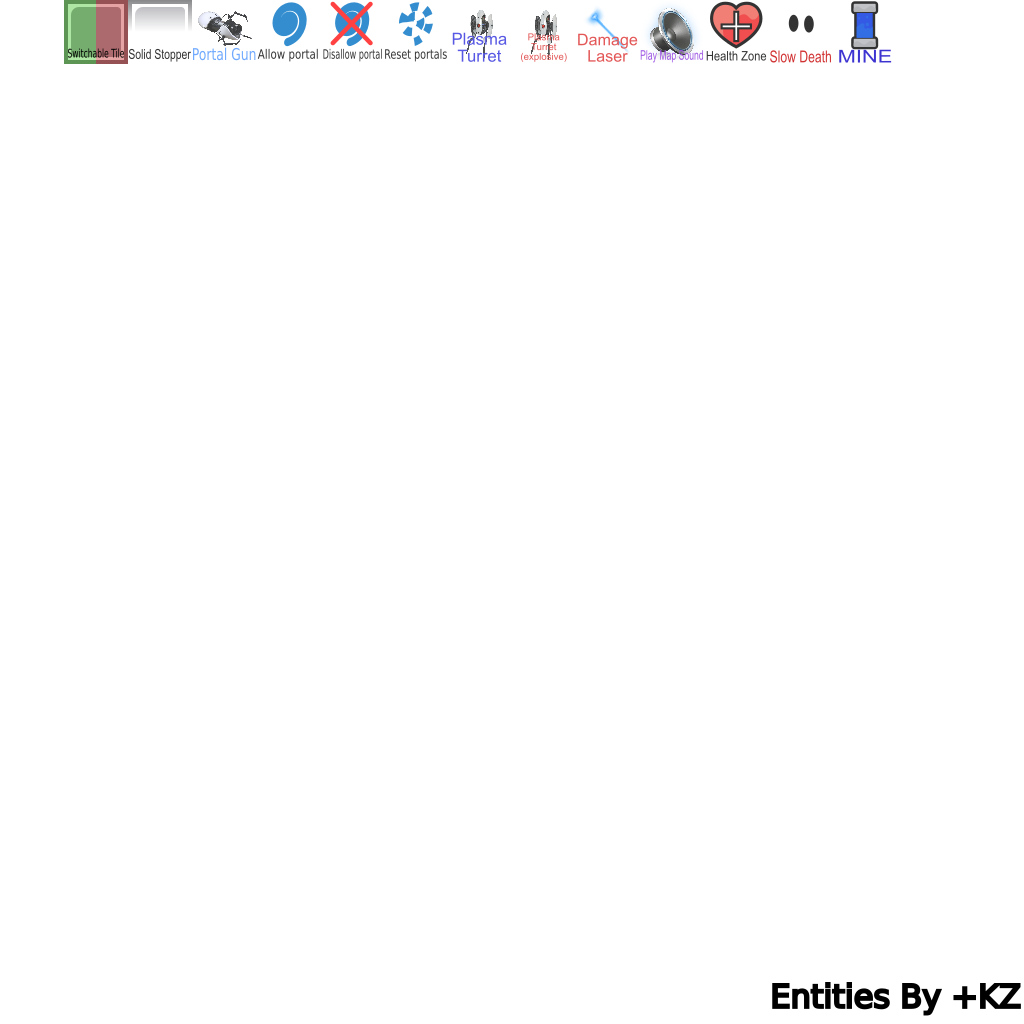
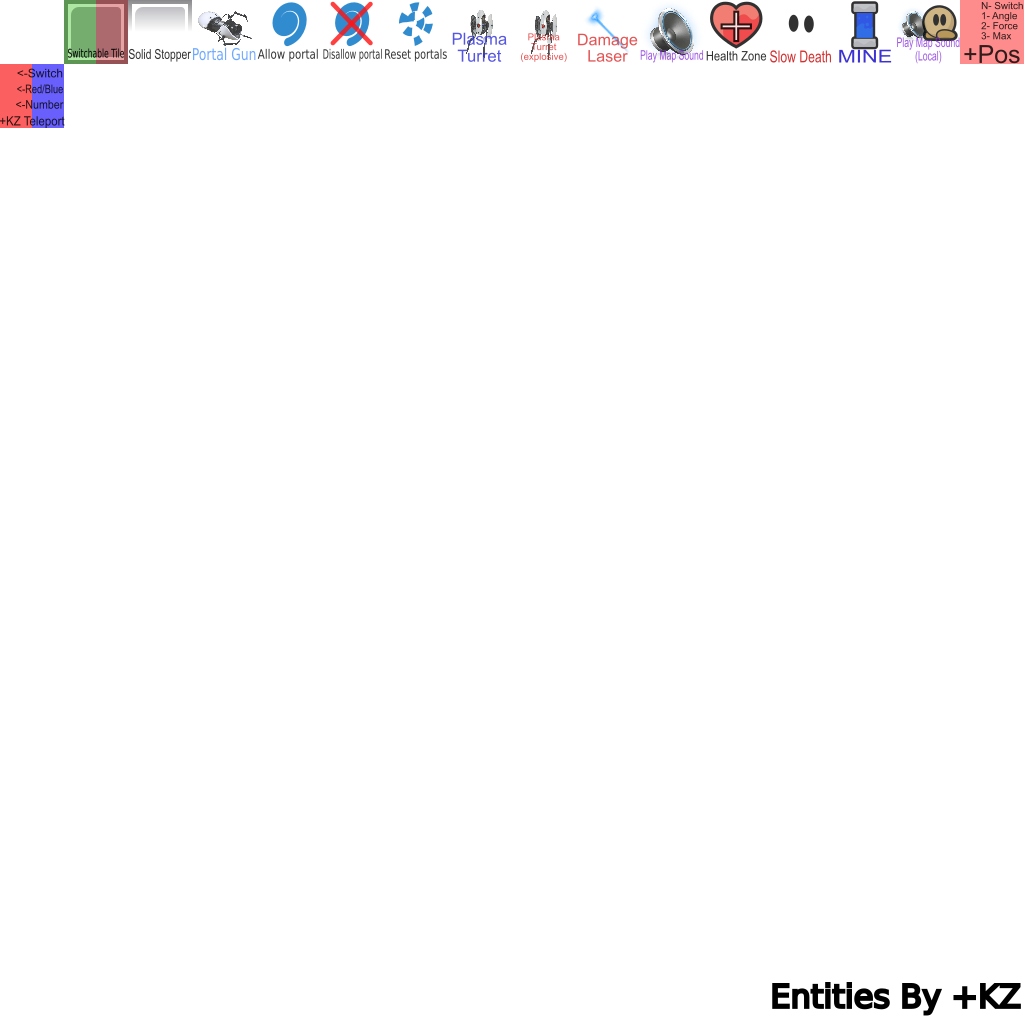
Add new tiles

diff --git a/src/game/server/entities/character.cpp b/src/game/server/entities/character.cpp
@@ -2733,7 +2733,7 @@ void CCharacter::HandleKZTiles()
 				{
 					p2->Reset();
 				}
-				return;
+				break;
 			}
 		}
 	}
@@ -2751,6 +2751,25 @@ void CCharacter::HandleKZTiles()
 	else if(!(pKZTile && pKZTile->m_Index == KZ_TILE_SOUND_PLAY) && !(pKZTileFront && pKZTileFront->m_Index == KZ_TILE_SOUND_PLAY))
 	{
 		m_LastSoundPlayed = -1;
+	}
+
+	if(pKZTile && pKZTile->m_Index == KZ_TILE_SOUND_PLAY_LOCAL && m_LastLocalSoundPlayed != pKZTile->m_Value1 && (pKZTile->m_Number ? Switchers()[pKZTile->m_Number].m_aStatus[Team()] : true))
+	{
+		CNetMsg_Sv_MapSoundGlobal Msg;
+		Msg.m_SoundId = (int)pKZTile->m_Value1;
+		Server()->SendPackMsg(&Msg, MSGFLAG_VITAL, m_pPlayer->GetCid());
+		m_LastLocalSoundPlayed = pKZTile->m_Value1;
+	}
+	else if(pKZTileFront && pKZTileFront->m_Index == KZ_TILE_SOUND_PLAY_LOCAL && m_LastLocalSoundPlayed != pKZTileFront->m_Value1 && (pKZTileFront->m_Number ? Switchers()[pKZTileFront->m_Number].m_aStatus[Team()] : true))
+	{
+		CNetMsg_Sv_MapSoundGlobal Msg;
+		Msg.m_SoundId = (int)pKZTileFront->m_Value1;
+		Server()->SendPackMsg(&Msg, MSGFLAG_VITAL, m_pPlayer->GetCid());
+		m_LastLocalSoundPlayed = pKZTileFront->m_Value1;
+	}
+	else if(!(pKZTile && pKZTile->m_Index == KZ_TILE_SOUND_PLAY_LOCAL) && !(pKZTileFront && pKZTileFront->m_Index == KZ_TILE_SOUND_PLAY_LOCAL))
+	{
+		m_LastLocalSoundPlayed = -1;
 	}
 
 	if(pKZTile && pKZTile->m_Index == KZ_TILE_HEALTH_ZONE && (pKZTile->m_Number ? Switchers()[pKZTile->m_Number].m_aStatus[Team()] : true) && Server()->Tick() % Server()->TickSpeed() == 0)
@@ -2771,6 +2790,89 @@ void CCharacter::HandleKZTiles()
 	else if(pKZTileFront && pKZTileFront->m_Index == KZ_TILE_DAMAGE_ZONE && (pKZTileFront->m_Number ? Switchers()[pKZTileFront->m_Number].m_aStatus[Team()] : true) && Server()->Tick() % Server()->TickSpeed() == 0)
 	{
 		TakeDamageVanilla(vec2(0,0),(int)pKZTile->m_Value1 + 1,m_pPlayer ? m_pPlayer->GetCid() : -1, WEAPON_WORLD);
+	}
+
+	//+KZ Front Only Tiles
+	if(pKZTileFront)
+	{
+		if(pKZTileFront->m_Index == KZ_FRONTTILE_FORCE_POS && (pKZTileFront->m_Number ? Switchers()[pKZTileFront->m_Number].m_aStatus[Team()] : true))
+		{
+			
+			//Value 1 = Angle
+			int Angle = std::clamp((int)pKZTileFront->m_Value1,0,360);
+			float RadAngle = Angle * 3.14159f/180.f;
+			vec2 Dir;
+			Dir.y = sin(RadAngle);
+			Dir.x = cos(RadAngle);
+			Dir = normalize(Dir);
+
+			//Value 2 = Force
+			//Add Coordinates to Position without caring about anything muahahahaha
+			int Force = pKZTileFront->m_Value2;
+			m_Core.m_Pos += Dir * Force;
+			m_Pos += Dir * Force;
+			
+
+			//Value 3 = Speed Limiter
+			vec2 TempVel = m_Core.m_Vel;
+			int MaxSpeed = pKZTileFront->m_Value3;
+
+			constexpr float MaxSpeedScale = 5.0f;
+			if(MaxSpeed < 0)
+			{
+				float MaxRampSpeed = GetTuning(m_TuneZone)->m_VelrampRange / (50 * log(maximum((float)GetTuning(m_TuneZone)->m_VelrampCurvature, 1.01f)));
+				MaxSpeed = maximum(MaxRampSpeed, GetTuning(m_TuneZone)->m_VelrampStart / 50) * MaxSpeedScale;
+			}
+
+			// (signed) length of projection
+			float CurrentDirectionalSpeed = dot(Dir, m_Core.m_Vel);
+			float TempMaxSpeed = MaxSpeed / MaxSpeedScale;
+			if(CurrentDirectionalSpeed + Force > TempMaxSpeed)
+				TempVel += Dir * (TempMaxSpeed - CurrentDirectionalSpeed);
+			else
+				TempVel += Dir * Force;
+
+			m_Core.m_Vel = ClampVel(m_MoveRestrictions, TempVel);
+		}
+
+		if(pKZTileFront->m_Index == KZ_FRONTTILE_KZ_PLAYER_TELEPORT && (pKZTileFront->m_Number ? Switchers()[pKZTileFront->m_Number].m_aStatus[Team()] : true))
+		{
+			int TeleNumber = std::clamp((int)pKZTileFront->m_Value2,1,255);
+			int TeleOut = 0;
+
+			switch (pKZTileFront->m_Value1) //Type
+			{
+			case 0: //Red Teleport
+				TeleOut = GameWorld()->m_Core.RandomOr0(Collision()->TeleOuts(TeleNumber - 1).size());
+				m_Core.m_Pos = Collision()->TeleOuts(TeleNumber - 1)[TeleOut];
+				
+				m_Core.m_Vel = vec2(0, 0);
+
+				if(!g_Config.m_SvTeleportHoldHook)
+				{
+					ResetHook();
+					GameWorld()->ReleaseHooked(GetPlayer()->GetCid());
+				}
+				if(g_Config.m_SvTeleportLoseWeapons)
+				{
+					ResetPickups();
+				}
+				
+				break;
+			case 1:
+				TeleOut = GameWorld()->m_Core.RandomOr0(Collision()->TeleOuts(TeleNumber - 1).size());
+				m_Core.m_Pos = Collision()->TeleOuts(TeleNumber - 1)[TeleOut];
+				if(!g_Config.m_SvTeleportHoldHook)
+				{
+					ResetHook();
+				}
+				if(g_Config.m_SvTeleportLoseWeapons)
+					ResetPickups();
+				break;
+			default:
+				break;
+			}
+		}
 	}
 }
 

diff --git a/src/game/client/render_map.cpp b/src/game/client/render_map.cpp
@@ -1438,9 +1438,9 @@ void CRenderTools::RenderKZGameOverlay(CKZTile *pKZ, int w, int h, float Scale, 
 			int c = mx + my * w;
 
 			int Number = (int)pKZ[c].m_Number;
-			int Value1 = (int)pKZ[c].m_Value1;
-			int Value2 = (int)pKZ[c].m_Value2;
-			int Value3 = (int)pKZ[c].m_Value3;
+			uint64_t Value1 = pKZ[c].m_Value1;
+			uint64_t Value2 = pKZ[c].m_Value2;
+			uint64_t Value3 = pKZ[c].m_Value3;
 
 				if(g_Config.m_ClTextEntities)
 				{
@@ -1631,9 +1631,87 @@ void CRenderTools::RenderKZGameMap(CKZTile *pKZ, int w, int h, float Scale, Colo
 	Graphics()->MapScreen(ScreenX0, ScreenY0, ScreenX1, ScreenY1);
 }
 
-void CRenderTools::RenderKZFrontOverlay(CKZTile *pKZ, int w, int h, float Scale, int OverlayRenderFlags, float Alpha) const
+void CRenderTools::RenderKZFrontOverlay(CKZTile *pKZ, int w, int h, float Scale, int OverlayRenderFlags, float Alpha)
 {
-	RenderKZGameOverlay(pKZ, w, h, Scale, OverlayRenderFlags, Alpha);
+	float ScreenX0, ScreenY0, ScreenX1, ScreenY1;
+	Graphics()->GetScreen(&ScreenX0, &ScreenY0, &ScreenX1, &ScreenY1);
+
+	int StartY = (int)(ScreenY0 / Scale) - 1;
+	int StartX = (int)(ScreenX0 / Scale) - 1;
+	int EndY = (int)(ScreenY1 / Scale) + 1;
+	int EndX = (int)(ScreenX1 / Scale) + 1;
+
+	if(EndX - StartX > Graphics()->ScreenWidth() / g_Config.m_GfxTextOverlay || EndY - StartY > Graphics()->ScreenHeight() / g_Config.m_GfxTextOverlay)
+		return; // its useless to render text at this distance
+
+	float Size = g_Config.m_ClTextEntitiesSize / 100.f;
+	float ToCenterOffset = (1 - Size) / 2.f;
+	char aBuf[16];
+
+	TextRender()->TextColor(1.0f, 1.0f, 1.0f, Alpha);
+	for(int y = StartY; y < EndY; y++)
+	{
+		for(int x = StartX; x < EndX; x++)
+		{
+			int mx = x;
+			int my = y;
+
+			if(mx < 0)
+				continue; // mx = 0;
+			if(mx >= w)
+				continue; // mx = w-1;
+			if(my < 0)
+				continue; // my = 0;
+			if(my >= h)
+				continue; // my = h-1;
+
+			int c = mx + my * w;
+
+			int Number = (int)pKZ[c].m_Number;
+			uint64_t Value1 = pKZ[c].m_Value1;
+			uint64_t Value2 = pKZ[c].m_Value2;
+			uint64_t Value3 = pKZ[c].m_Value3;
+
+			if(pKZ[c].m_Index == KZ_FRONTTILE_FORCE_POS)
+			{
+				int Angle = std::clamp((int)pKZ[c].m_Value1,0,360);
+				// draw arrow
+				Graphics()->TextureSet(g_pData->m_aImages[IMAGE_SPEEDUP_ARROW].m_Id);
+				Graphics()->QuadsBegin();
+				Graphics()->SetColor(1.0f, 1.0f, 1.0f, Alpha);
+				SelectSprite(SPRITE_SPEEDUP_ARROW);
+				Graphics()->QuadsSetRotation(Angle * (pi / 180.0f));
+				DrawSprite(mx * Scale + 16, my * Scale + 10, 25.0f);
+				Graphics()->QuadsEnd();
+			}
+
+				if(g_Config.m_ClTextEntities)
+				{
+					if(Number)
+					{
+					str_format(aBuf, sizeof(aBuf), "%d", Number);
+					TextRender()->Text(mx * Scale, (my + ToCenterOffset / 4) * Scale, Size * Scale / 4.f, aBuf);
+					}
+					if(Value1)
+					{
+						str_format(aBuf, sizeof(aBuf), "%d", Value1);
+						TextRender()->Text(mx * Scale, (my + 0.25f + ToCenterOffset / 4) * Scale, Size * Scale / 4.f, aBuf);
+					}
+					if(Value2)
+					{
+						str_format(aBuf, sizeof(aBuf), "%d", Value2);
+						TextRender()->Text(mx * Scale, (my + 0.5f + ToCenterOffset / 4) * Scale, Size * Scale / 4.f, aBuf);
+					}
+					if(Value3)
+					{
+						str_format(aBuf, sizeof(aBuf), "%d", Value3);
+						TextRender()->Text(mx * Scale, (my + 0.75f + ToCenterOffset / 4) * Scale, Size * Scale / 4.f, aBuf);
+					}
+				}
+		}
+	}
+	TextRender()->TextColor(TextRender()->DefaultTextColor());
+	Graphics()->MapScreen(ScreenX0, ScreenY0, ScreenX1, ScreenY1);
 }
 
 void CRenderTools::RenderKZFrontMap(CKZTile *pKZ, int w, int h, float Scale, ColorRGBA Color, int RenderFlags) const

diff --git a/src/game/client/render.h b/src/game/client/render.h
@@ -331,7 +331,7 @@ public:
 
 	void RenderKZGameOverlay(CKZTile *pKZ, int w, int h, float Scale, int OverlayRenderFlags, float Alpha = 1.0f) const;
 	void RenderKZGameMap(CKZTile *pKZ, int w, int h, float Scale, ColorRGBA Color, int RenderFlags) const;
-	void RenderKZFrontOverlay(CKZTile *pKZ, int w, int h, float Scale, int OverlayRenderFlags, float Alpha = 1.0f) const;
+	void RenderKZFrontOverlay(CKZTile *pKZ, int w, int h, float Scale, int OverlayRenderFlags, float Alpha = 1.0f);
 	void RenderKZFrontMap(CKZTile *pKZ, int w, int h, float Scale, ColorRGBA Color, int RenderFlags) const;
 };
 

diff --git a/src/game/collision_kz.cpp b/src/game/collision_kz.cpp
@@ -480,3 +480,24 @@ int CCollision::FastIntersectLinePortalLaser(vec2 Pos0, vec2 Pos1, vec2 *pOutCol
 		*pOutBeforeCollision = Pos1;
 	return 0;
 }
+
+bool CCollision::DDNetLayerExists(int Layer)
+{
+	switch(Layer)
+	{
+	case LAYER_GAME:
+		return m_pTiles;
+	case LAYER_FRONT:
+		return m_pFront;
+	case LAYER_SWITCH:
+		return m_pSwitch;
+	case LAYER_TELE:
+		return m_pTele;
+	case LAYER_SPEEDUP:
+		return m_pSpeedup;
+	case LAYER_TUNE:
+		return m_pTune;
+	default:
+		return false;
+	}
+}

diff --git a/src/game/mapitems_kz.h b/src/game/mapitems_kz.h
@@ -23,6 +23,10 @@ enum
 	KZ_TILE_HEALTH_ZONE,
 	KZ_TILE_DAMAGE_ZONE,
 	KZ_TILE_MINE,
+	KZ_TILE_SOUND_PLAY_LOCAL,
+
+	KZ_FRONTTILE_FORCE_POS = 15,
+	KZ_FRONTTILE_KZ_PLAYER_TELEPORT,
 };
 
 enum

diff --git a/src/game/server/entities/character.h b/src/game/server/entities/character.h
@@ -284,6 +284,7 @@ public:
 	bool m_AimPressed = false;
 	bool m_Waitingforreleaseaim = false;
 	int64_t m_LastSoundPlayed = -1;
+	int64_t m_LastLocalSoundPlayed = -1;
 
 	struct
 	{
